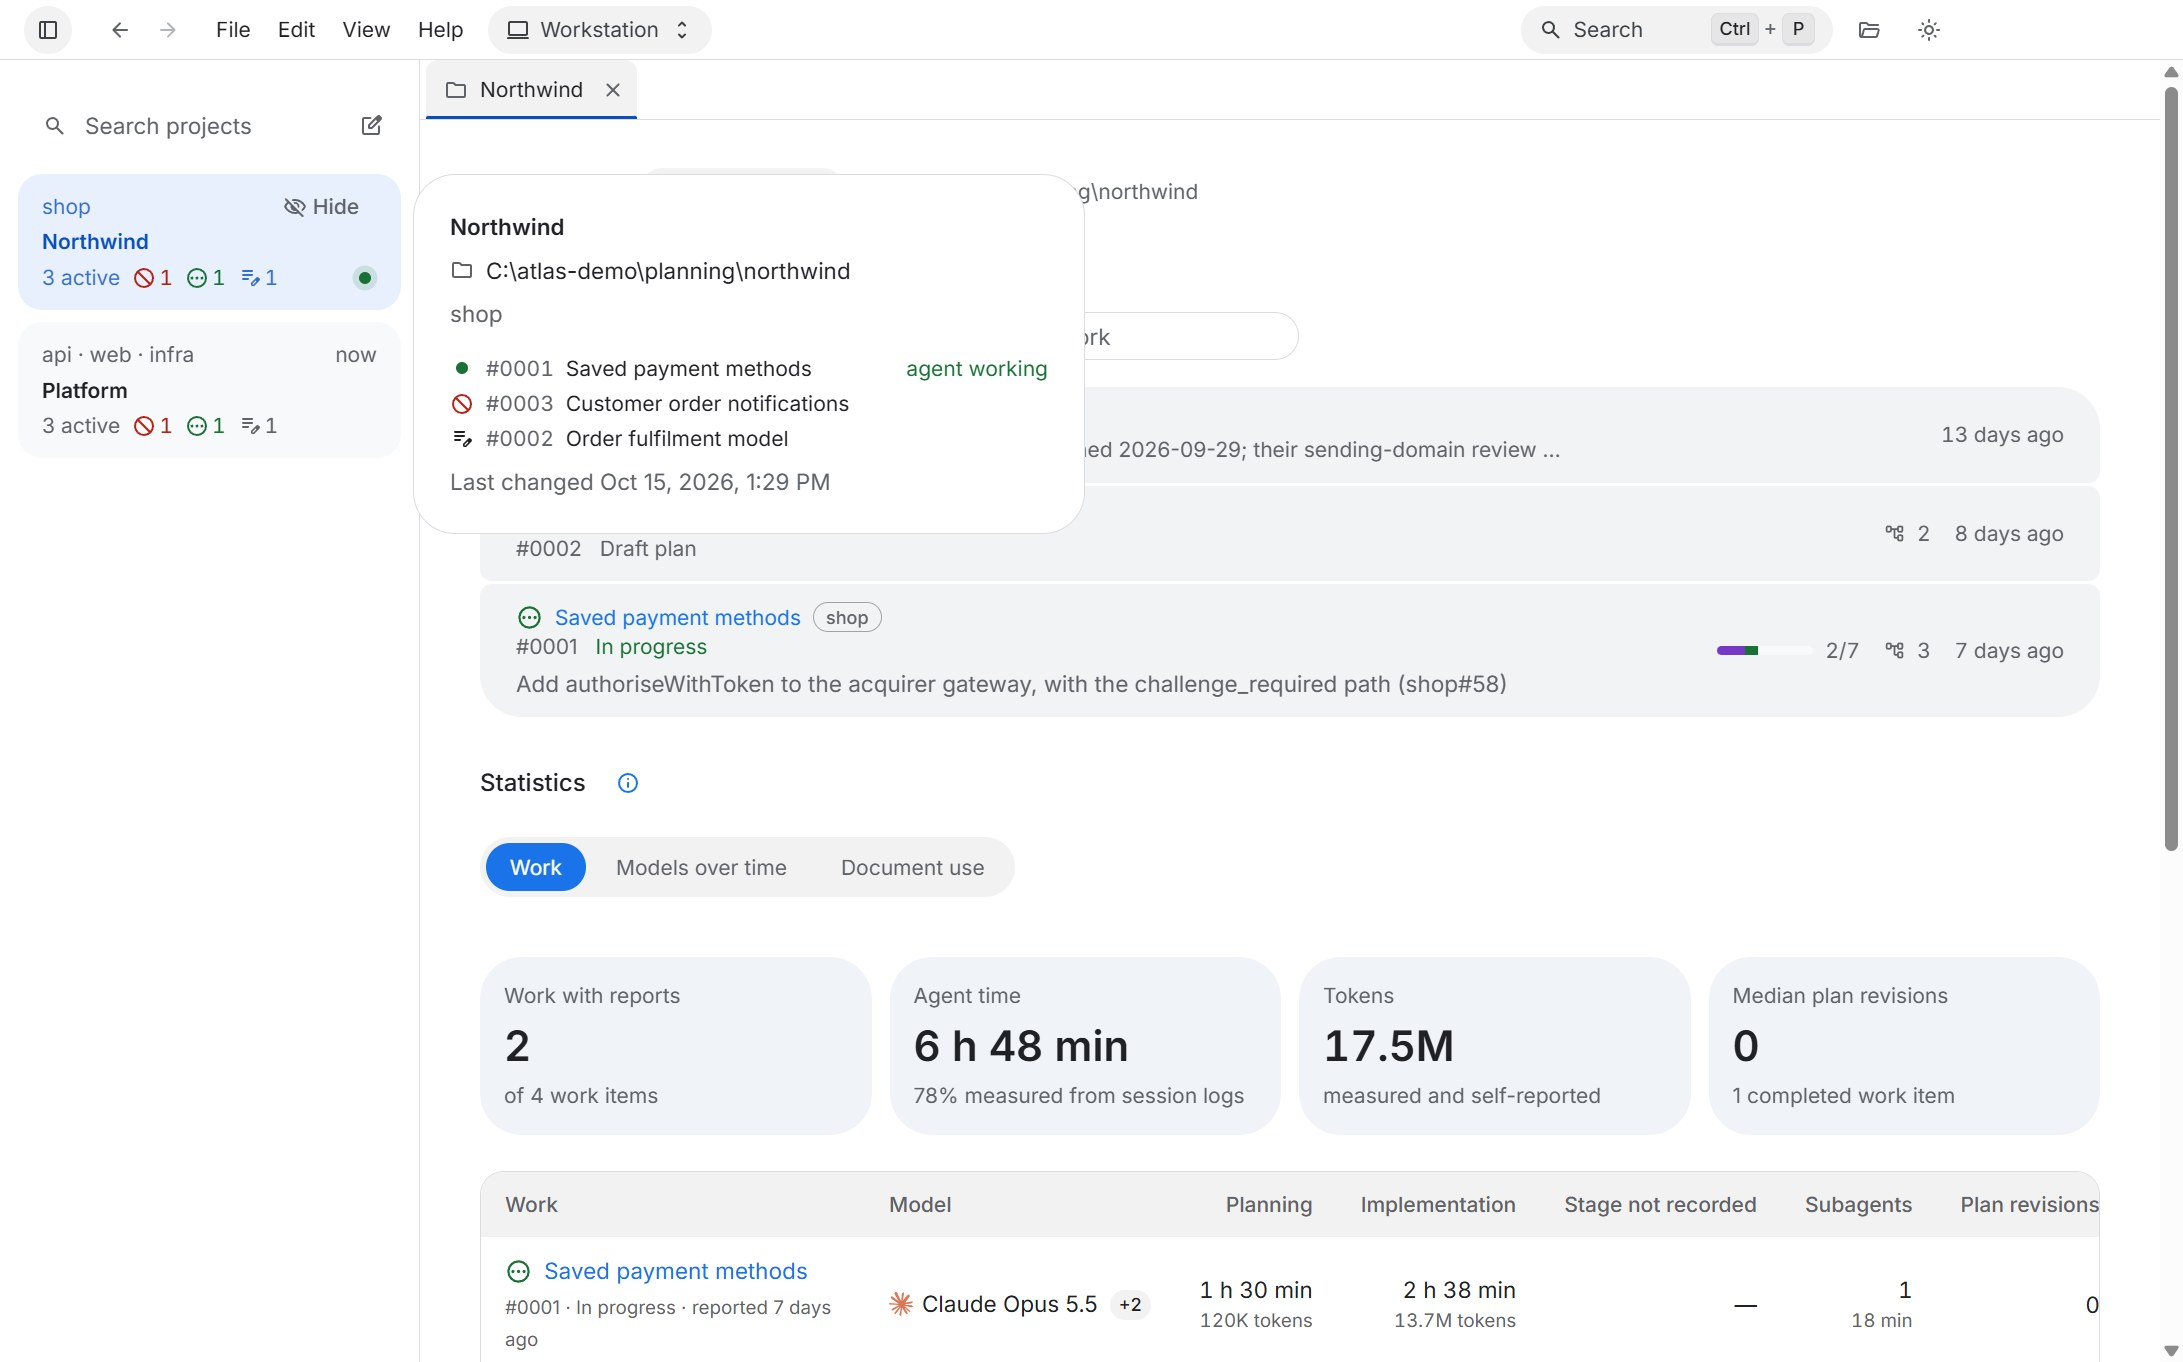
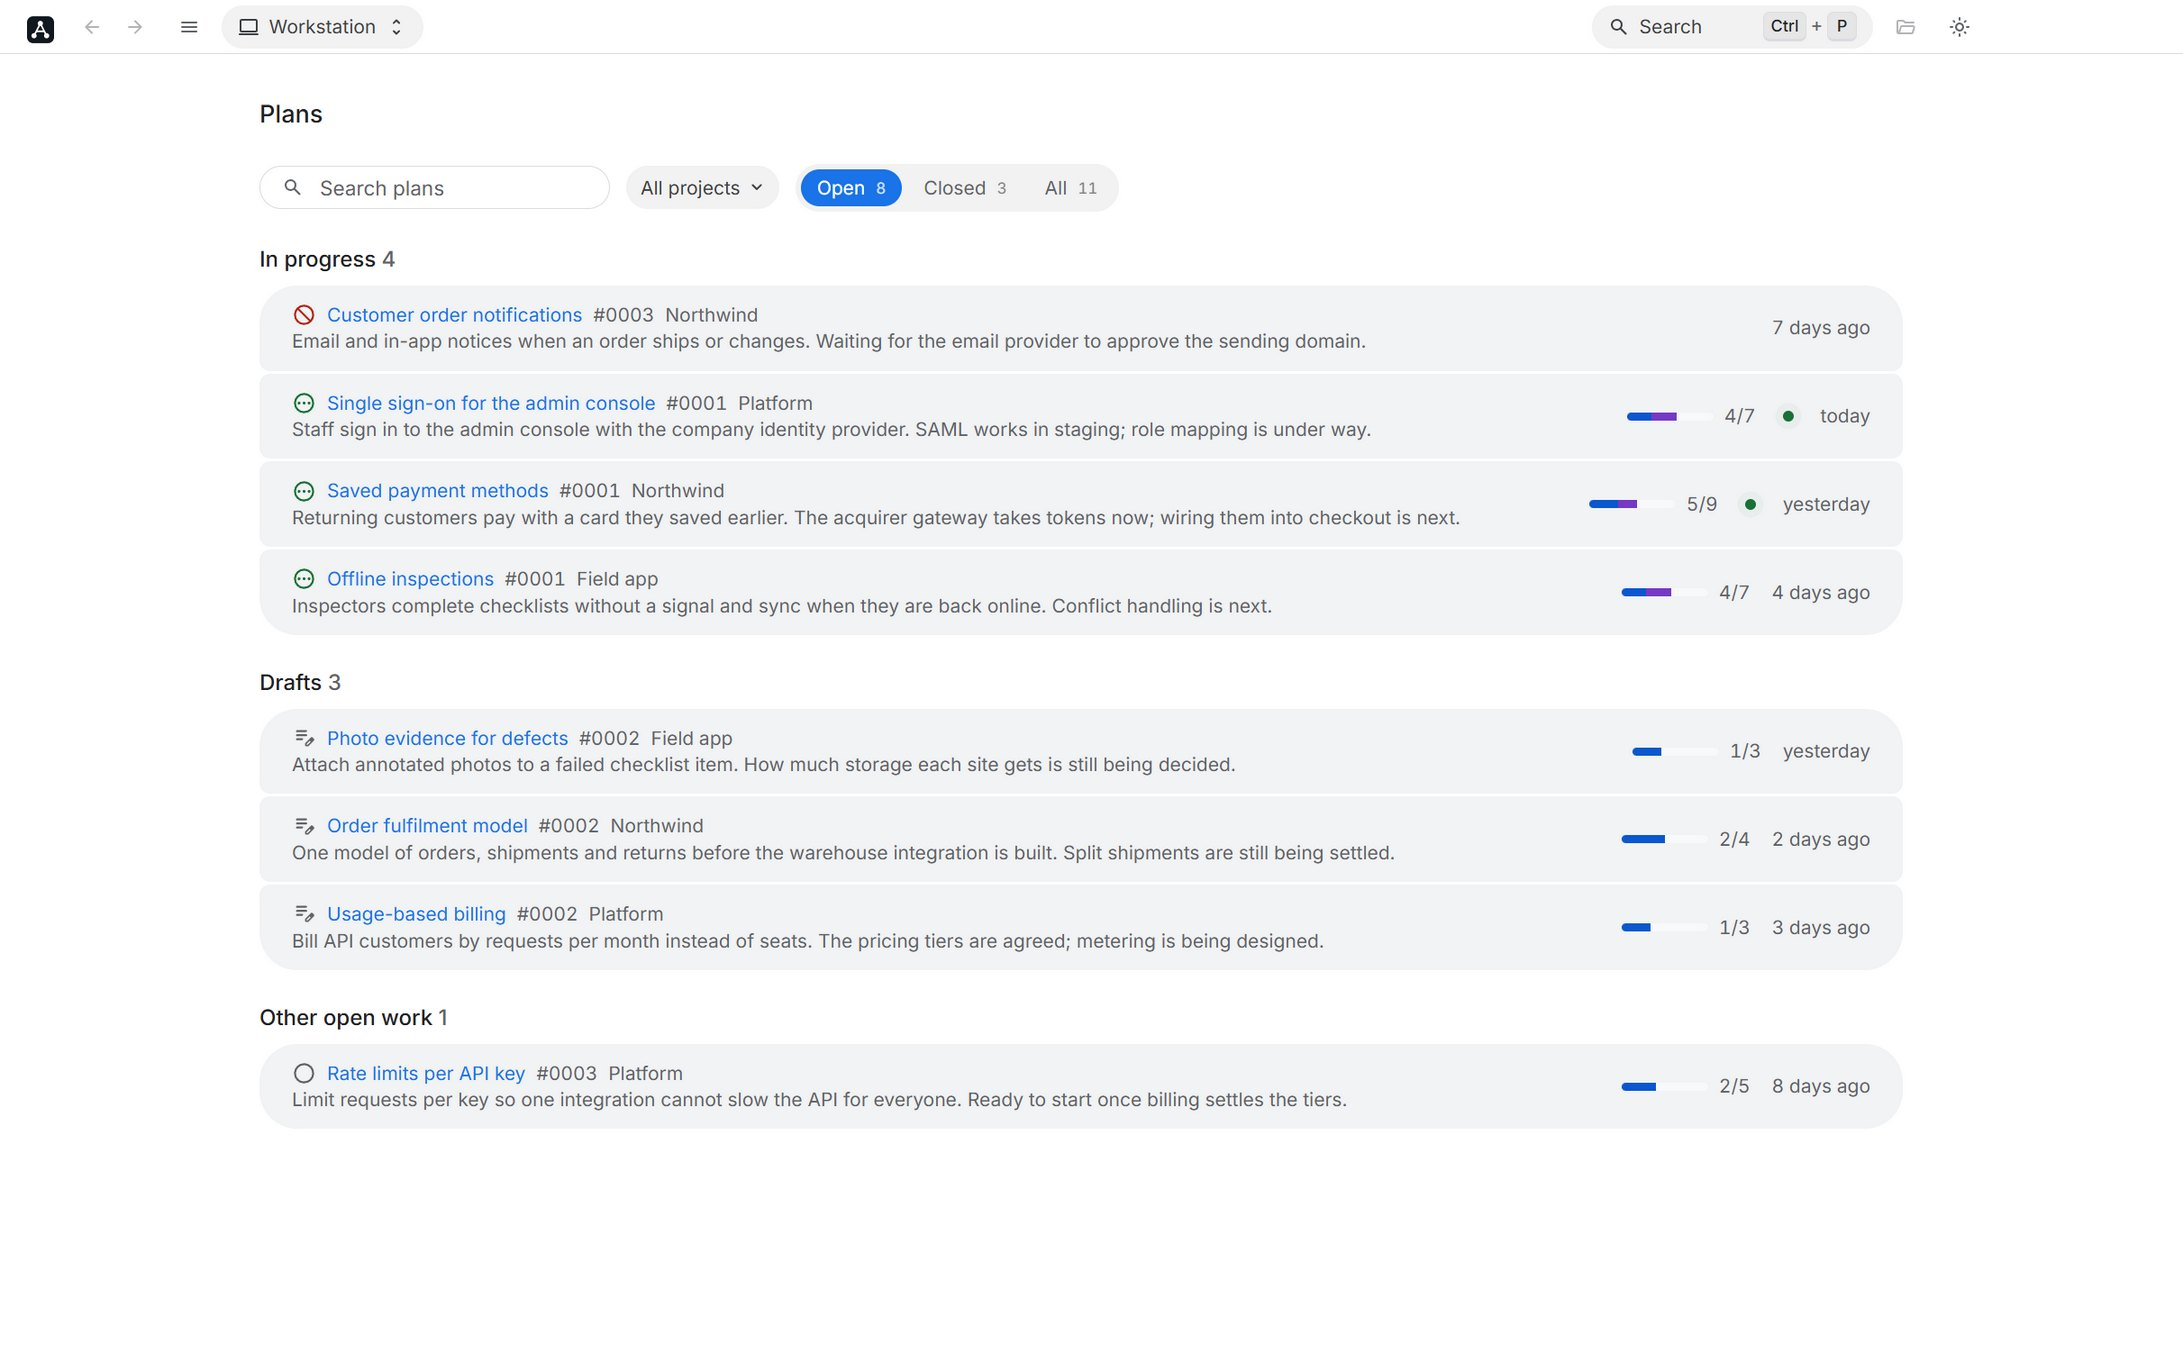
Show the hub, a plan in progress and a proposal of the new app in the README's screenshots
Taken off screen from a temporary home of three fictional projects on the
computer Workstation.

diff --git a/README.md b/README.md
@@ -13,7 +13,7 @@ Atlas keeps plans, decisions and diagrams where both a coding agent and its huma
 
 [Get started](#get-started) · [App guide](app/README.md) · [Agent interface](docs/agent-interface.md) · [The atlas command](docs/command.md) · [Progress and statistics](docs/progress-and-statistics.md) · [Remote access](docs/remote-access.md) · [All documentation](docs/README.md)
 
-![The Atlas desktop app: the hub listing every plan of every project, each with its project, a one-line summary, its progress and a live dot while an agent works on it](app/assets/atlas-desktop.jpg)
+![The Atlas hub in the light theme on the computer Workstation: eight open plans of the projects Northwind, Platform and Field app, grouped as In progress (one blocked, three being implemented, two with an agent's live dot), Drafts and Other open work, each row with its state, title, number, project, one-line summary, steps done with the planning steps in their own colour, and when it changed](app/assets/atlas-desktop.jpg)
 
 | Part                                 | What it does                                                                                                                                                      |
 | ------------------------------------ | ----------------------------------------------------------------------------------------------------------------------------------------------------------------- |
@@ -69,7 +69,7 @@ The skills work in Codex and Claude Code and name no model or provider. A standa
 2. **Implement.** When you say "atlas implement" (or use `/atlas:atlas-implement`, `$atlas-implement` in Codex), the agent starts the accepted plan with its steps, marks each `doing` and `done` as it goes, and delivers through pull requests with review and CI. It closes the work once every step is done.
 3. **Follow along.** Atlas shows every work item's progress and the steps left, its plan, ledger and decisions, recent commits, and the diagrams that explain it, updating as files change.
 
-   ![A work item in Atlas: its plan with a diagram card under the heading it explains, and beside it the progress through its steps, a link to its ledger, its dates and its statistics](assets/work-item.jpg)
+   ![A plan in Atlas: Saved payment methods, in progress, with its summary as a lead paragraph, its request folded under its heading, and a diagram card under the heading it explains; beside it the progress column with three planning steps done in their own colour, then implementation steps done, one in progress and the rest to do, its dates and its statistics](assets/work-item.jpg)
 
 4. **Learn from it.** The agent keeps the decisions and lessons worth reusing. A project's statistics show each work item's agent time, tokens and subagents for planning and for implementation, and compares completed work by model over time, so you can see how a new model does on your work.
 

diff --git a/app/README.md b/app/README.md
@@ -1,6 +1,6 @@
 # Atlas desktop app
 
-![An Atlas window from before the hub: the computer's projects as cards in a sidebar, and a project's page with its work and statistics in a tab](assets/atlas-desktop.jpg)
+![The Atlas hub in the light theme on the computer Workstation: eight open plans of the projects Northwind, Platform and Field app, grouped as In progress (one blocked, three being implemented, two with an agent's live dot), Drafts and Other open work, each row with its state, title, number, project, one-line summary, steps done with the planning steps in their own colour, and when it changed](assets/atlas-desktop.jpg)
 
 Atlas is a desktop app for planning repositories: active and archived work, plans, ledgers, glossaries, ADRs, evidence, shared knowledge, Git activity, work and usage statistics and each plan's diagrams. Every window opens on the hub, one list of every plan of the computer's projects, and shows one place at a time: the hub, a plan, a diagram or a document. Discuss changes with your agent in chat; the agent edits the records, and Atlas shows them as they change.
 
